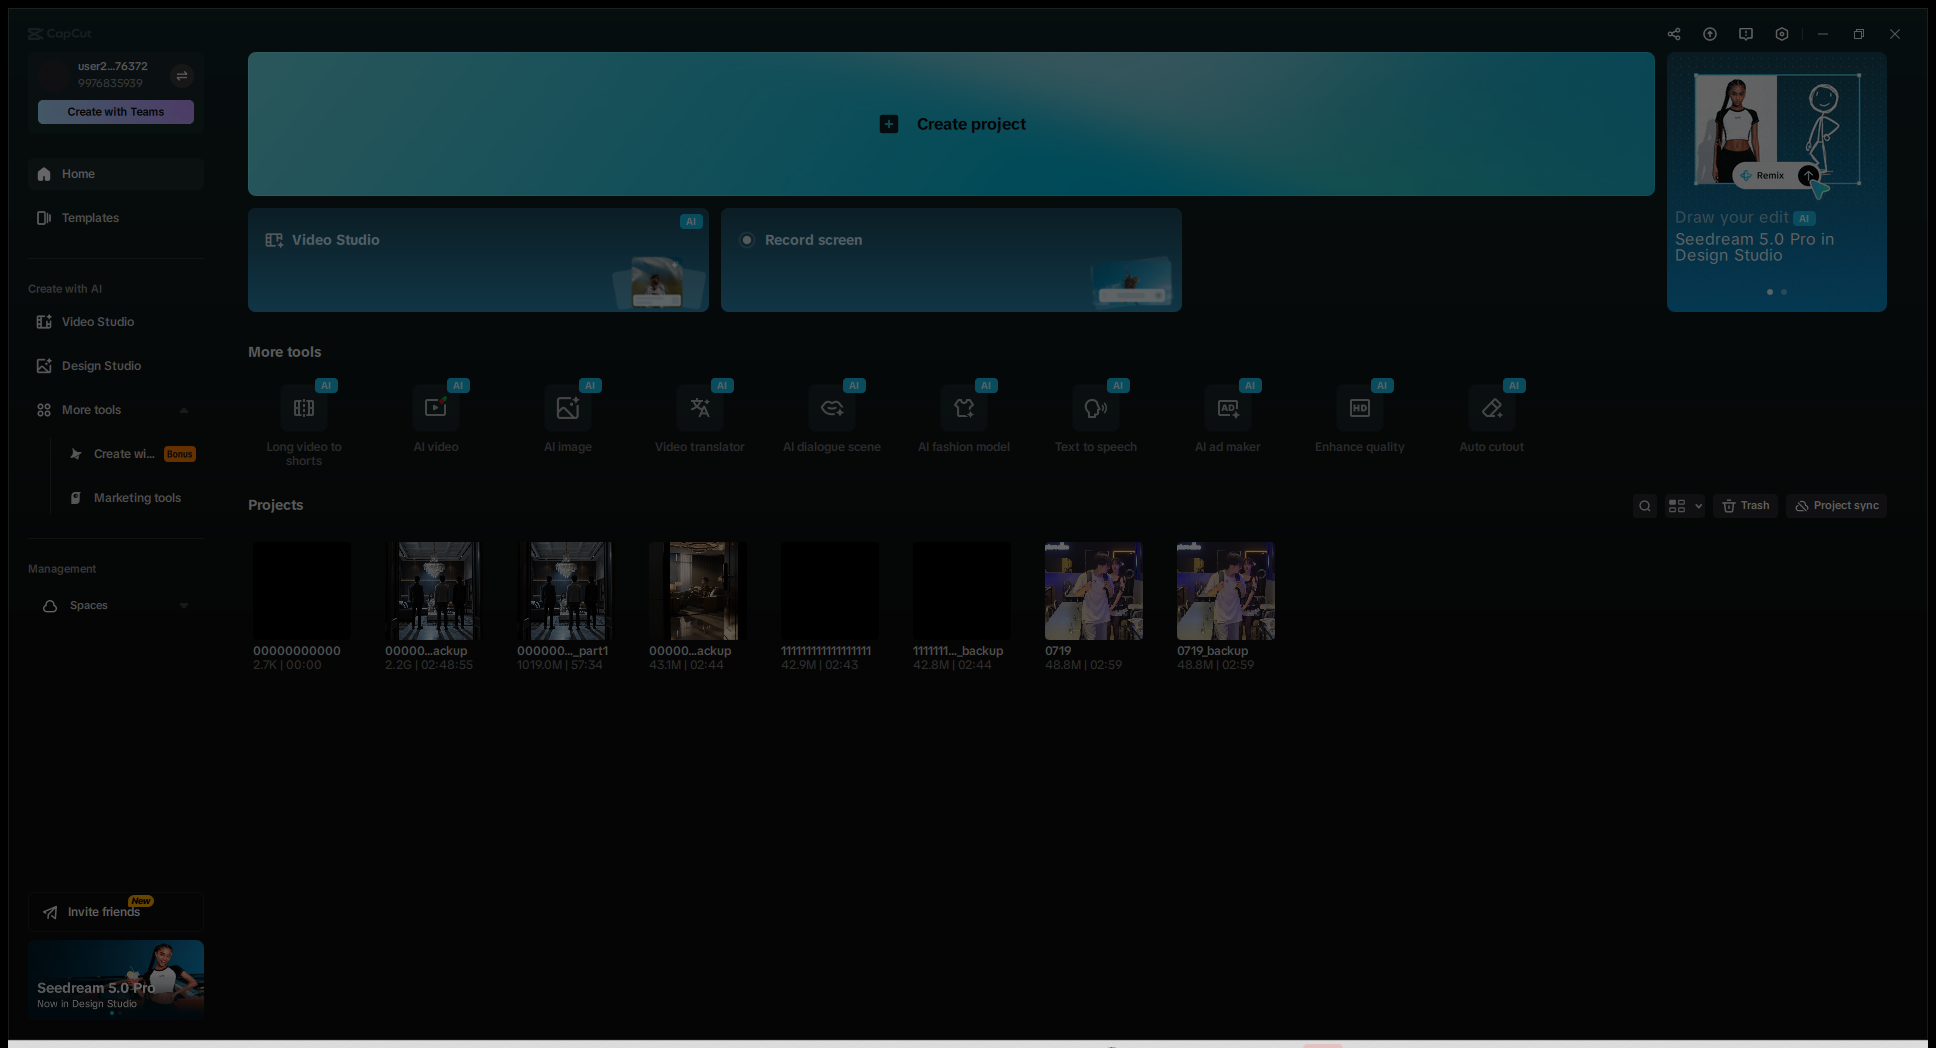
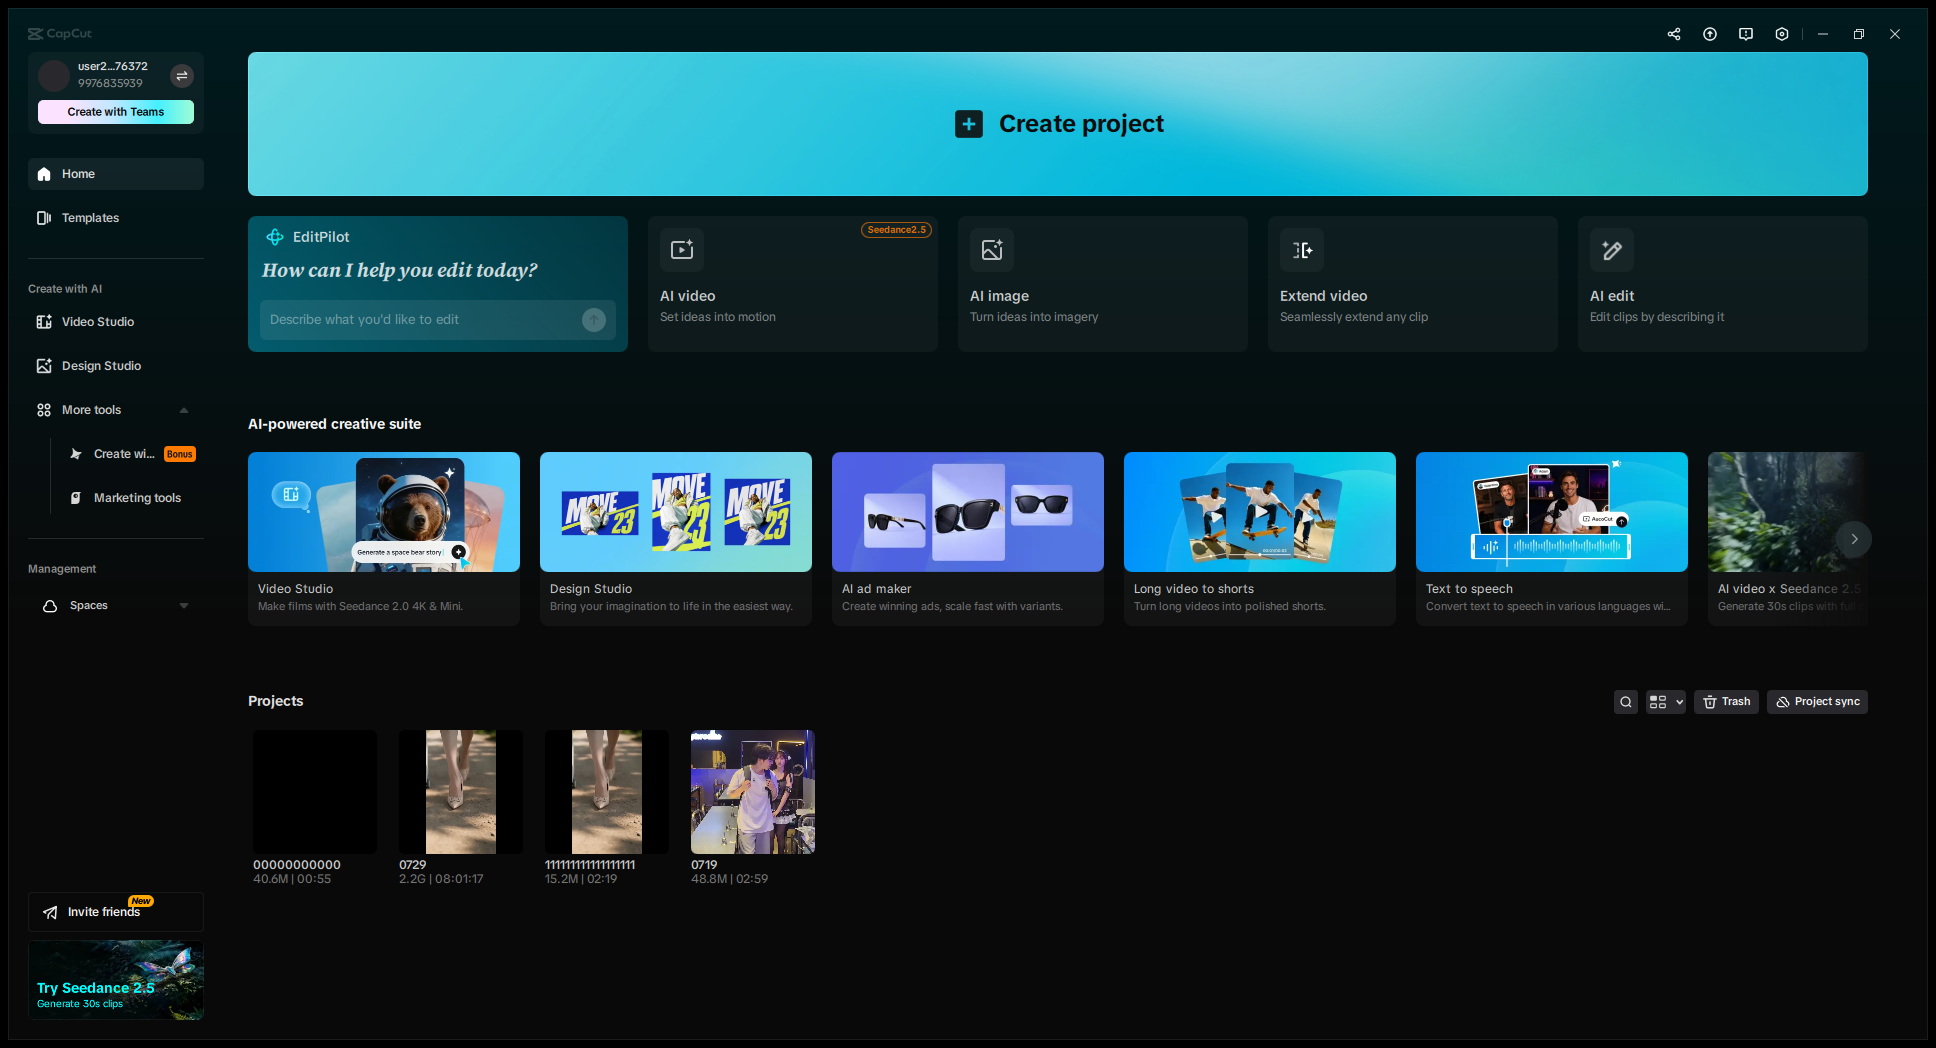
feat: implement timeline validator and add overlay resources with controller logic

diff --git a/capcut_gui_app.py b/capcut_gui_app.py
@@ -33,7 +33,7 @@ sys.path.append(os.path.dirname(os.path.abspath(__file__)))
 import uiautomation as auto
 import pyautogui
 
-from pyJianYingDraft.capcut_controller import CapCutController, ExportResolution, ExportFramerate, capcut_process_ids, capcut_main_hwnd_and_rect
+from pyJianYingDraft.capcut_controller import CapCutController, ExportResolution, ExportFramerate, capcut_process_ids, capcut_main_hwnd_and_rect, dismiss_environment_testing_window
 from pyJianYingDraft.exceptions import AutomationError
 from offline_tts_patcher import patch_offline_tts_in_draft, clear_mini_draft_cache, cleanup_output_audio_dir
 from anti_copyright_patcher import apply_full_anti_copyright_pipeline, patch_video_speed_dynamic, resync_subtitles_and_audio_to_video_timeline
@@ -472,13 +472,29 @@ def launch_capcut(connect_ui=True, cancel_check=None):
         shortcut = next((path for path in CAPCUT_SHORTCUT_CANDIDATES if path and os.path.exists(path)), None)
         if shortcut:
             logger.info(f"Khởi chạy CapCut từ shortcut: {shortcut}")
-            subprocess.Popen(["explorer.exe", shortcut])
-        else:
-            logger.info("Không tìm thấy shortcut CapCut. Thử khởi chạy bằng App Execution Alias/URI...")
             try:
-                subprocess.Popen(["CapCut.exe"])
+                os.startfile(shortcut)
             except Exception:
+                subprocess.Popen(["explorer.exe", shortcut])
+        else:
+            logger.info("Không tìm thấy shortcut CapCut. Thử khởi chạy bằng CapCut.exe...")
+            exe_path = r"C:\Users\nguye\AppData\Local\CapCut\Apps\CapCut.exe"
+            if os.path.exists(exe_path):
+                os.startfile(exe_path)
+            else:
                 subprocess.Popen(["powershell", "-NoProfile", "-Command", "Start-Process 'capcut://'"])
+
+        time.sleep(1)
+        try:
+            import psutil, win32api, win32process, win32con
+            for p in psutil.process_iter(['pid', 'name']):
+                if 'capcut' in (p.info.get('name') or '').lower():
+                    try:
+                        h = win32api.OpenProcess(win32con.PROCESS_SET_INFORMATION | win32con.PROCESS_QUERY_INFORMATION, False, p.pid)
+                        win32process.SetPriorityClass(h, win32process.HIGH_PRIORITY_CLASS)
+                        win32api.CloseHandle(h)
+                    except Exception: pass
+        except Exception: pass
         for _ in range(30):
             if cancel_check:
                 cancel_check()
@@ -505,6 +521,7 @@ def launch_capcut(connect_ui=True, cancel_check=None):
     for i in range(25):
         if cancel_check:
             cancel_check()
+        dismiss_environment_testing_window()
         try:
             controller = CapCutController()
             if controller.app and controller.app.Exists(0):
@@ -644,12 +661,13 @@ def open_project_in_gui(controller, project_name, cancel_check=None):
         last_marker_error = None
         for marker_attempt in range(1, 241):
             try:
+                current_threshold = 0.82 if marker_attempt < 10 else 0.65
                 click_result = click_template(
                     template_file,
-                    threshold=0.82,
+                    threshold=current_threshold,
                     dry_run=False,
                     timeout=0.5,
-                    click_offset_y=click_above_px,
+                    click_offset_y=-10,
                     search_region=[0.0, 0.12, 1.0, 0.85],
                 )
                 break
@@ -679,7 +697,8 @@ def open_project_in_gui(controller, project_name, cancel_check=None):
             f"Da chan fallback sang project dau tien. Chi tiet: {str(e)}."
         ) from e
 
-    logger.info("Clicked project marker. Continue workflow.")
+    logger.info("Clicked project marker. Waiting 3.5s for editor window to open...")
+    time.sleep(3.5)
     return controller
 
 def run_auto_captions(controller):
@@ -3677,6 +3696,19 @@ class QueueRunner:
     def repair_runtime_state(self):
         pp_alive = bool(self.preprocess_thread and self.preprocess_thread.is_alive())
         gui_alive = bool(self.gui_thread and self.gui_thread.is_alive())
+        
+        if self.is_processing and not gui_alive:
+            with self.queue_lock:
+                has_ready = any(
+                    item.get("status") in ("ready_for_capcut", "gui_processing") or (item.get("status") == "paused" and int(item.get("resume_from_step", 1) or 1) >= 5)
+                    for item in self.queue
+                )
+            if has_ready:
+                logger.info("Tự động khôi phục Worker 2 (GUI) để xử lý mục ready_for_capcut...")
+                self.gui_thread = threading.Thread(target=self._gui_loop, daemon=True)
+                self.gui_thread.start()
+                gui_alive = True
+
         thread_alive = pp_alive or gui_alive
         
         changed = False
@@ -5484,14 +5516,16 @@ def retry_queue_item():
             item["resume_from_step"] = 1
             item.pop("cancel_requested", None)
             item.pop("stopped_after_patch", None)
+            runner.pause_requested = False
+            runner.is_paused = False
+            runner.is_processing = False
             runner.save_cache()
-
-            # Start queue runner if it's currently idle
-            if not runner.is_processing:
-                runner.start(data)
+            runner.resume()
             return jsonify(runner.get_state())
         return jsonify({"error": "Invalid index"}), 400
     except Exception as e:
+        import traceback
+        logger.error(f"Error in retry_queue_item: {e}\n{traceback.format_exc()}")
         return jsonify({"error": str(e)}), 500
 
 @app.route('/api/queue/delete', methods=['POST'])

diff --git a/timeline/validator.py b/timeline/validator.py
@@ -43,10 +43,16 @@ def validate_timeline(
     # 2. Check subtitle segment ranges
     for ss in subtitle_segs:
         if ss.target_duration <= 0:
-            raise ValidationError(f"Subtitle segment {ss.id} has non-positive duration: {ss.target_duration}")
+            import logging
+            logging.getLogger("TimelineValidator").warning(f"Subtitle segment {ss.id} has non-positive duration: {ss.target_duration}. Skipping.")
+            continue
             
         if ss.ocr_source_start is None or ss.ocr_source_duration is None:
-            raise ValidationError(f"Subtitle segment {ss.id} is missing OCR source metadata.")
+            import logging
+            logging.getLogger("TimelineValidator").warning(f"Subtitle segment {ss.id} is missing OCR source metadata. Fallback to target timerange.")
+            ss.ocr_source_start = ss.target_start
+            ss.ocr_source_duration = ss.target_duration
+
             
         # Subtitle exceeds video timeline end
         if ss.target_start + ss.target_duration > video_end + 500_000:
@@ -59,10 +65,12 @@ def validate_timeline(
     # 3. Check audio segment ranges
     for as_val in audio_segs:
         if as_val.src_duration <= 0 or as_val.target_duration <= 0:
-            raise ValidationError(
+            import logging
+            logging.getLogger("TimelineValidator").warning(
                 f"Audio segment {as_val.id} has non-positive duration: "
-                f"src={as_val.src_duration}, tgt={as_val.target_duration}"
+                f"src={as_val.src_duration}, tgt={as_val.target_duration}. Skipping invalid segment."
             )
+            continue
             
         # Audio exceeds video timeline end
         if as_val.target_start + as_val.target_duration > video_end + 500_000:

diff --git a/capcut_rpa.py b/capcut_rpa.py
@@ -625,7 +625,8 @@ def detect_first_project_card(
     }
 
 
-def run_workflow(config_path: Path, dry_run: bool) -> dict[str, Any]:
+def run_workflow(config_path: Path | str, dry_run: bool) -> dict[str, Any]:
+    config_path = Path(config_path)
     config = json.loads(config_path.read_text(encoding="utf-8"))
     base = config_path.parent
     steps = []
@@ -806,6 +807,25 @@ def run_workflow(config_path: Path, dry_run: bool) -> dict[str, Any]:
             if not dry_run:
                 time.sleep(seconds)
             result = {"action": "sleep", "seconds": seconds, "dry_run": dry_run}
+        elif action == "hotkey":
+            keys = step.get("keys", [])
+            if not dry_run:
+                pyautogui.hotkey(*keys)
+            result = {"action": "hotkey", "keys": keys, "dry_run": dry_run}
+        elif action == "click_ratio":
+            rx = float(step.get("ratio_x", 0.5))
+            ry = float(step.get("ratio_y", 0.5))
+            target = find_capcut_window()
+            cx = target.left + int(target.width * rx)
+            cy = target.top + int(target.height * ry)
+            if not dry_run:
+                pyautogui.click(cx, cy)
+            result = {"action": "click_ratio", "ratio_x": rx, "ratio_y": ry, "x": cx, "y": cy, "dry_run": dry_run}
+        elif action == "key":
+            k = step.get("key", "enter")
+            if not dry_run:
+                pyautogui.press(k)
+            result = {"action": "key", "key": k, "dry_run": dry_run}
         else:
             raise ValueError(f"Unsupported action: {action}")
         result["step"] = index

diff --git a/pyJianYingDraft/capcut_controller.py b/pyJianYingDraft/capcut_controller.py
@@ -17,6 +17,7 @@ from enum import Enum
 from logging.handlers import RotatingFileHandler
 from typing import Callable, Literal, Optional
 
+import psutil
 import uiautomation as uia
 import win32con
 import win32gui
@@ -55,7 +56,21 @@ def capcut_process_ids() -> set[int]:
         return set()
 
 
+def dismiss_environment_testing_window() -> bool:
+    """Tự động diệt VEDetector.exe gây treo mở CapCut (không đóng bậy cửa sổ CapCut)."""
+    dismissed = False
+    for p in psutil.process_iter(["pid", "name"]):
+        try:
+            if "vedetector" in (p.info.get("name") or "").lower():
+                p.kill()
+                dismissed = True
+        except Exception:
+            pass
+    return dismissed
+
+
 def capcut_main_hwnd_and_rect() -> tuple[int, tuple[int, int, int, int]] | None:
+    dismiss_environment_testing_window()
     pids = capcut_process_ids()
     best: tuple[int, tuple[int, int, int, int], int] | None = None
 
@@ -95,7 +110,11 @@ def activate_capcut_main_window() -> tuple[int, int, int, int] | None:
         return None
     hwnd, rect = found
     try:
-        win32gui.ShowWindow(hwnd, win32con.SW_MAXIMIZE)
+        import ctypes
+        ctypes.windll.user32.AllowSetForegroundWindow(-1)
+        win32gui.ShowWindow(hwnd, win32con.SW_RESTORE)
+        win32gui.ShowWindow(hwnd, win32con.SW_SHOW)
+        win32gui.BringWindowToTop(hwnd)
         win32gui.SetForegroundWindow(hwnd)
     except Exception:
         pass
